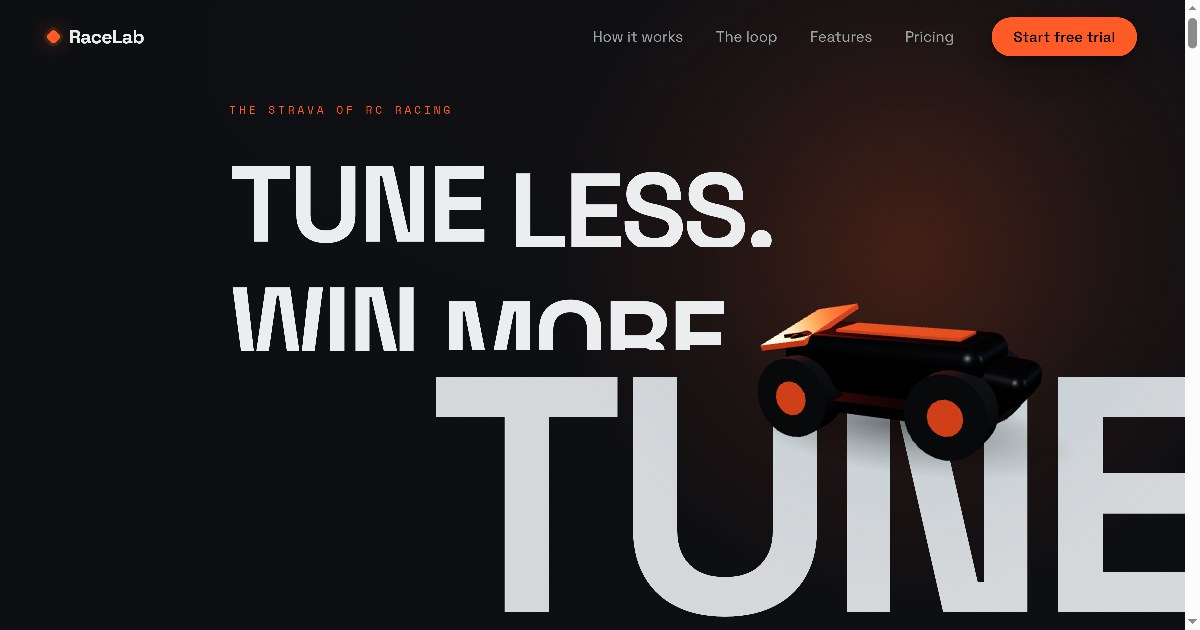
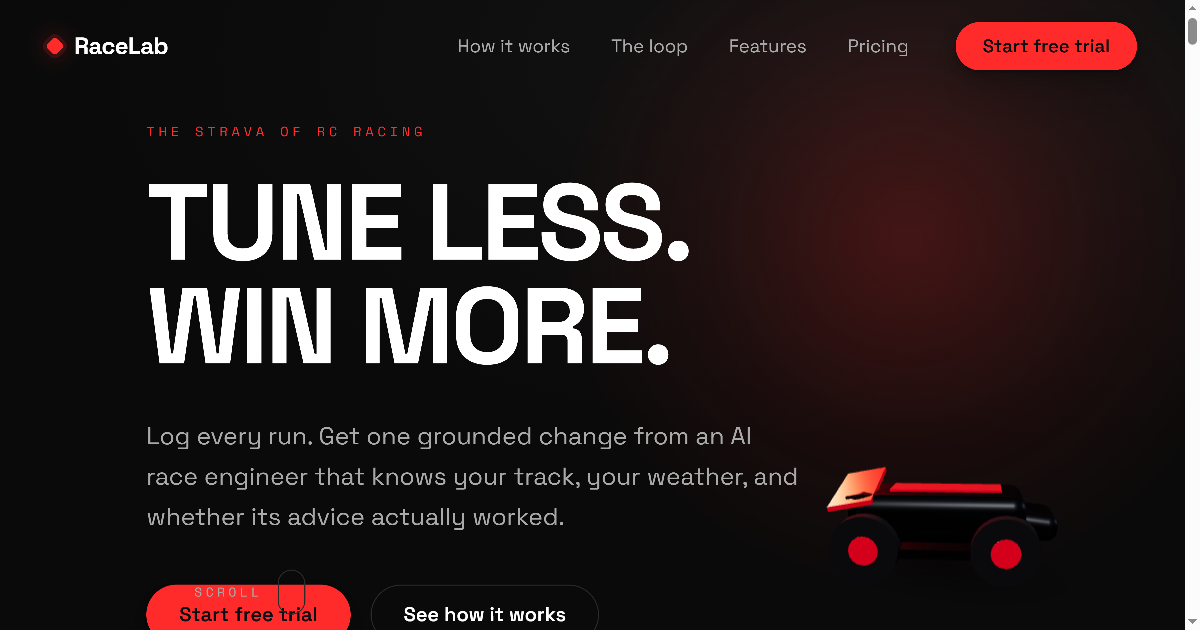
feat(web): recolor to red/white/black + fix hero overflow
- Palette: black background (#0a0a0a), white text (#fff), one red accent (#ff2a2a).
  Collapsed the green "good" and amber "warn" into red (global color replace across
  all CSS/JS/SVG + base.css tokens; 0 orange/green refs remain).
- Hero: removed the oversized "TUNE" knockout word that bled off the right edge and
  overlapped the subhead; settled the 3D car into the lower-right; narrowed the
  subhead so nothing collides — the hero now fits the viewport cleanly.
- Regenerated favicon + OG image in the new palette.

Verified in-browser (Chromium, 1440): black/white/red throughout, hero composition
fits with no element bleed, 0 horizontal page overflow; final CTA + footer render.

diff --git a/RaceLab/apps/web/styles/sections/hero.css b/RaceLab/apps/web/styles/sections/hero.css
@@ -32,8 +32,8 @@
   border-radius: 50%;
   background: radial-gradient(
     circle at center,
-    rgba(255, 90, 38, 0.22) 0%,
-    rgba(255, 90, 38, 0.07) 38%,
+    rgba(255, 42, 42, 0.22) 0%,
+    rgba(255, 42, 42, 0.07) 38%,
     transparent 68%
   );
   filter: blur(8px);
@@ -69,8 +69,8 @@
   height: 7%;
   border-radius: 4px;
   transform: rotate(-9deg);
-  background: linear-gradient(90deg, var(--accent) 0%, rgba(255, 90, 38, 0.7) 100%);
-  box-shadow: 0 6px 22px rgba(255, 90, 38, 0.32);
+  background: linear-gradient(90deg, var(--accent) 0%, rgba(255, 42, 42, 0.7) 100%);
+  box-shadow: 0 6px 22px rgba(255, 42, 42, 0.32);
 }
 .hero__machine-wheel {
   position: absolute;
@@ -105,10 +105,10 @@
 /* live Three.js car (desktop + WebGL) — replaces the CSS-art machine when mounted */
 .hero__car {
   position: absolute;
-  right: clamp(-60px, 1vw, 60px);
-  bottom: 8%;
-  width: clamp(320px, 46vw, 680px);
-  height: clamp(220px, 34vw, 480px);
+  right: clamp(-30px, 1.5vw, 36px);
+  bottom: 3%;
+  width: clamp(290px, 38vw, 560px);
+  height: clamp(210px, 28vw, 400px);
   z-index: 0;
   will-change: transform;
 }
@@ -119,23 +119,6 @@
 }
 @media (max-width: 768px) {
   .hero__car { display: none; }
-}
-
-/* knockout word over the machine — punches through via difference blend */
-.hero__knockout {
-  position: absolute;
-  right: -2%;
-  bottom: 4%;
-  font-family: "Space Grotesk", system-ui, sans-serif;
-  font-weight: 700;
-  font-size: clamp(120px, 28vw, 420px);
-  line-height: 0.8;
-  letter-spacing: -0.04em;
-  color: var(--text);
-  mix-blend-mode: difference;
-  opacity: 0.9;
-  user-select: none;
-  will-change: transform;
 }
 
 /* ── content ────────────────────────────────────────────────────────── */
@@ -172,7 +155,7 @@
 }
 
 .hero__subhead {
-  max-width: 46ch;
+  max-width: 42ch;
   color: var(--sub);
   font-size: clamp(1.05rem, 0.98rem + 0.4vw, 1.3rem);
   line-height: 1.65;
@@ -236,11 +219,6 @@
     top: 9%;
     width: 72vw;
     opacity: 0.75;
-  }
-  .hero__knockout {
-    right: -6%;
-    bottom: 22%;
-    opacity: 0.6;
   }
   .hero__inner {
     max-width: 100%;

diff --git a/RaceLab/apps/web/styles/sections/tune.css b/RaceLab/apps/web/styles/sections/tune.css
@@ -8,8 +8,8 @@
   /* a faint pit-lane wash so the live canvas has depth behind it */
   background-image: radial-gradient(
       120% 90% at 18% 30%,
-      rgba(255, 90, 38, 0.07) 0%,
-      rgba(255, 90, 38, 0) 55%
+      rgba(255, 42, 42, 0.07) 0%,
+      rgba(255, 42, 42, 0) 55%
     ),
     radial-gradient(100% 80% at 90% 90%, rgba(13, 14, 17, 0.9) 0%, rgba(13, 14, 17, 0) 60%);
 }
@@ -54,8 +54,8 @@
   transform: translateX(-50%);
   background: radial-gradient(
     50% 50% at 50% 50%,
-    rgba(255, 90, 38, 0.14) 0%,
-    rgba(255, 90, 38, 0) 70%
+    rgba(255, 42, 42, 0.14) 0%,
+    rgba(255, 42, 42, 0) 70%
   );
   filter: blur(8px);
   pointer-events: none;
@@ -86,7 +86,7 @@
   width: min(78%, 520px);
   height: auto;
   color: var(--accent);
-  filter: drop-shadow(0 0 18px rgba(255, 90, 38, 0.25));
+  filter: drop-shadow(0 0 18px rgba(255, 42, 42, 0.25));
 }
 
 /* --- Rail: the live setup sheet. --- */
@@ -169,10 +169,10 @@
   transform: translateX(6px);
   box-shadow:
     inset 0 1px 0 rgba(236, 237, 238, 0.05),
-    -1px 0 0 rgba(255, 90, 38, 0.5),
+    -1px 0 0 rgba(255, 42, 42, 0.5),
     0 1px 2px rgba(0, 0, 0, 0.3),
     0 10px 30px rgba(0, 0, 0, 0.32),
-    0 2px 18px rgba(255, 90, 38, 0.12);
+    0 2px 18px rgba(255, 42, 42, 0.12);
 }
 .tune__step.is-active .tune__index {
   color: var(--accent);

diff --git a/RaceLab/apps/web/src/sections/hero.js b/RaceLab/apps/web/src/sections/hero.js
@@ -27,7 +27,6 @@ export function init(ctx) {
         <span class="hero__machine-wheel hero__machine-wheel--r"></span>
         <span class="hero__machine-shadow"></span>
       </div>
-      <span class="hero__knockout" data-knockout>TUNE</span>
     </div>
 
     <div class="container hero__inner">
@@ -51,7 +50,6 @@ export function init(ctx) {
   const cta = root.querySelector(".hero__cta");
   const eyebrow = root.querySelector(".hero__eyebrow");
   const cue = root.querySelector(".hero__scrollcue");
-  const knockout = root.querySelector("[data-knockout]");
 
   // Reduced motion: paint final states, register nothing scroll-driven.
   if (env.reduced) {
@@ -81,14 +79,7 @@ export function init(ctx) {
     repeatDelay: 0.2,
   });
 
-  // Knockout word + machine parallax: drift on scroll-out (transform/opacity only).
-  if (knockout) {
-    gsap.to(knockout, {
-      yPercent: -28,
-      ease: "none",
-      scrollTrigger: { trigger: root, start: "top top", end: "bottom top", scrub: true },
-    });
-  }
+  // Machine parallax: drift on scroll-out (transform/opacity only).
   gsap.to(".hero__machine", {
     yPercent: 14,
     ease: "none",

diff --git a/RaceLab/apps/web/styles/base.css b/RaceLab/apps/web/styles/base.css
@@ -1,19 +1,19 @@
 /* base.css — global design system: tokens, reset, type, grain, cursor, buttons. */
 
 :root {
-  /* pit-lane palette (extends the app DA) */
-  --bg: #0e0f12;
-  --bg-deep: #0b0c0e;
-  --bg-soft: #111114;
-  --surface: #1a1c21;
-  --surface-alt: #22252c;
-  --border: #2e323b;
-  --text: #ecedee;
-  --sub: #9ba1a6;
-  --accent: #ff5a26;
-  --accent-soft: #3a2218;
-  --good: #3ddc84;
-  --warn: #ffb02e;
+  /* red / white / black palette */
+  --bg: #0a0a0a;
+  --bg-deep: #000000;
+  --bg-soft: #141414;
+  --surface: #161616;
+  --surface-alt: #1f1f1f;
+  --border: #2a2a2a;
+  --text: #ffffff;
+  --sub: #a8a8a8;
+  --accent: #ff2a2a;
+  --accent-soft: #3a1010;
+  --good: #ff2a2a;
+  --warn: #ff2a2a;
 
   --maxw: 1280px;
   --gutter: clamp(1.25rem, 4vw, 4rem);
@@ -138,7 +138,7 @@ section {
 }
 .btn--primary:hover {
   transform: translateY(-2px);
-  box-shadow: 0 2px 6px rgba(255, 90, 38, 0.35), 0 10px 30px rgba(255, 90, 38, 0.28);
+  box-shadow: 0 2px 6px rgba(255, 42, 42, 0.35), 0 10px 30px rgba(255, 42, 42, 0.28);
 }
 .btn--ghost {
   background: transparent;

diff --git a/RaceLab/apps/web/styles/sections/final.css b/RaceLab/apps/web/styles/sections/final.css
@@ -22,7 +22,7 @@
   bottom: -30%;
   width: 70vw;
   height: 70vw;
-  background: radial-gradient(circle, rgba(255, 90, 38, 0.16), transparent 60%);
+  background: radial-gradient(circle, rgba(255, 42, 42, 0.16), transparent 60%);
   pointer-events: none;
   z-index: -1;
 }
@@ -99,8 +99,8 @@
   font-size: 1.1rem;
   box-shadow:
     0 1px 2px rgba(0, 0, 0, 0.35),
-    0 8px 22px rgba(255, 90, 38, 0.22),
-    0 22px 60px rgba(255, 90, 38, 0.18);
+    0 8px 22px rgba(255, 42, 42, 0.22),
+    0 22px 60px rgba(255, 42, 42, 0.18);
 }
 .final__cta-arrow {
   transition: transform 0.4s var(--ease-out);
@@ -148,7 +148,7 @@ footer {
   height: 12px;
   border-radius: 3px;
   background: var(--accent);
-  box-shadow: 0 0 0 3px var(--accent-soft), 0 0 18px rgba(255, 90, 38, 0.5);
+  box-shadow: 0 0 0 3px var(--accent-soft), 0 0 18px rgba(255, 42, 42, 0.5);
   transform: rotate(45deg);
   transition: transform 0.5s var(--ease-out);
 }

diff --git a/RaceLab/apps/web/styles/sections/pricing.css b/RaceLab/apps/web/styles/sections/pricing.css
@@ -57,16 +57,16 @@
   box-shadow:
     0 1px 2px rgba(0, 0, 0, 0.34),
     0 10px 26px rgba(0, 0, 0, 0.3),
-    0 26px 60px rgba(255, 90, 38, 0.12),
-    inset 0 1px 0 rgba(255, 90, 38, 0.16);
+    0 26px 60px rgba(255, 42, 42, 0.12),
+    inset 0 1px 0 rgba(255, 42, 42, 0.16);
 }
 
 .plan--featured:hover {
   box-shadow:
     0 2px 5px rgba(0, 0, 0, 0.42),
     0 16px 38px rgba(0, 0, 0, 0.36),
-    0 40px 84px rgba(255, 90, 38, 0.2),
-    inset 0 1px 0 rgba(255, 90, 38, 0.22);
+    0 40px 84px rgba(255, 42, 42, 0.2),
+    inset 0 1px 0 rgba(255, 42, 42, 0.22);
 }
 
 /* "2 months free" badge pinned to the featured card's top-right corner */
@@ -83,7 +83,7 @@
   font-weight: 700;
   text-transform: uppercase;
   letter-spacing: 0.14em;
-  box-shadow: 0 4px 14px rgba(255, 90, 38, 0.34);
+  box-shadow: 0 4px 14px rgba(255, 42, 42, 0.34);
 }
 
 .plan__top {

diff --git a/RaceLab/apps/web/src/scene/car.js b/RaceLab/apps/web/src/scene/car.js
@@ -39,7 +39,7 @@ export function createCar(container) {
   const key = new THREE.DirectionalLight(0xffffff, 2.2);
   key.position.set(5, 8, 6);
   scene.add(key);
-  const rim = new THREE.DirectionalLight(0xff5a26, 1.6);
+  const rim = new THREE.DirectionalLight(0xff2a2a, 1.6);
   rim.position.set(-6, 2, -4);
   scene.add(rim);
   // A soft fill from camera-side keeps the shadowed flank readable.
@@ -57,10 +57,10 @@ export function createCar(container) {
     roughness: 0.35,
   });
   const accent = new THREE.MeshStandardMaterial({
-    color: 0xff5a26,
+    color: 0xff2a2a,
     metalness: 0.4,
     roughness: 0.3,
-    emissive: 0xff5a26,
+    emissive: 0xff2a2a,
     emissiveIntensity: 0.18,
   });
   const dark = new THREE.MeshStandardMaterial({

diff --git a/RaceLab/apps/web/styles/sections/proof.css b/RaceLab/apps/web/styles/sections/proof.css
@@ -110,12 +110,12 @@
 .proof__cell--accent {
   color: var(--accent);
   font-weight: 700;
-  text-shadow: 0 0 24px rgba(255, 90, 38, 0.35);
+  text-shadow: 0 0 24px rgba(255, 42, 42, 0.35);
 }
 .proof__row--decisive .proof__sep::after {
   background: var(--accent);
   border-color: var(--accent);
-  box-shadow: 0 0 12px rgba(255, 90, 38, 0.6);
+  box-shadow: 0 0 12px rgba(255, 42, 42, 0.6);
 }
 
 /* --- punchline: big, off-center, descriptive vs prescriptive ------------ */
@@ -165,7 +165,7 @@
   height: 6px;
   border-radius: 50%;
   background: var(--good);
-  box-shadow: 0 0 10px rgba(61, 220, 132, 0.6);
+  box-shadow: 0 0 10px rgba(255, 42, 42, 0.6);
   flex: none;
 }
 .proof__fact:hover {

diff --git a/RaceLab/apps/web/styles/sections/nav.css b/RaceLab/apps/web/styles/sections/nav.css
@@ -62,7 +62,7 @@ nav.scrolled::before {
   height: 11px;
   border-radius: 3px;
   background: var(--accent);
-  box-shadow: 0 0 0 3px var(--accent-soft), 0 0 18px rgba(255, 90, 38, 0.5);
+  box-shadow: 0 0 0 3px var(--accent-soft), 0 0 18px rgba(255, 42, 42, 0.5);
   transform: rotate(45deg);
   transition: transform 0.5s var(--ease-out);
 }
@@ -179,7 +179,7 @@ nav.open .nav__burger {
   right: -10%;
   width: 60vw;
   height: 60vw;
-  background: radial-gradient(circle, rgba(255, 90, 38, 0.16), transparent 62%);
+  background: radial-gradient(circle, rgba(255, 42, 42, 0.16), transparent 62%);
   pointer-events: none;
 }
 nav.open .nav__overlay {

diff --git a/RaceLab/apps/web/styles/sections/engineer.css b/RaceLab/apps/web/styles/sections/engineer.css
@@ -120,8 +120,8 @@
   font-size: 0.92rem;
   line-height: 1.4;
   color: var(--good);
-  background: rgba(61, 220, 132, 0.1);
-  border: 1px solid rgba(61, 220, 132, 0.28);
+  background: rgba(255, 42, 42, 0.1);
+  border: 1px solid rgba(255, 42, 42, 0.28);
 }
 
 /* ---- right rail: principles + duel ---- */
@@ -239,8 +239,8 @@
   font-size: 1.05rem;
   font-weight: 700;
   color: var(--good);
-  background: rgba(61, 220, 132, 0.12);
-  border: 1px solid rgba(61, 220, 132, 0.3);
+  background: rgba(255, 42, 42, 0.12);
+  border: 1px solid rgba(255, 42, 42, 0.3);
 }
 
 @media (max-width: 768px) {

diff --git a/RaceLab/apps/web/index.html b/RaceLab/apps/web/index.html
@@ -72,7 +72,7 @@
     <!-- preloader: chassis silhouette draws + counter, then wipes up -->
     <div id="preloader" aria-hidden="true">
       <div class="preloader__inner">
-        <svg class="preloader__car" viewBox="0 0 240 110" fill="none" stroke="#ff5a26" stroke-width="2">
+        <svg class="preloader__car" viewBox="0 0 240 110" fill="none" stroke="#ff2a2a" stroke-width="2">
           <path d="M20 78 L52 78 M188 78 L220 78 M70 78 q50 -52 100 0" />
           <path d="M40 78 q-4 -30 30 -34 l70 0 q34 4 30 34" />
           <path d="M150 44 l34 -10 l2 14" />

diff --git a/RaceLab/apps/web/styles/sections/features.css b/RaceLab/apps/web/styles/sections/features.css
@@ -99,7 +99,7 @@
   width: 140%;
   height: 70%;
   transform: translateX(-50%);
-  background: radial-gradient(50% 50% at 50% 50%, rgba(255, 90, 38, 0.16), transparent 70%);
+  background: radial-gradient(50% 50% at 50% 50%, rgba(255, 42, 42, 0.16), transparent 70%);
   pointer-events: none;
 }
 
@@ -127,7 +127,7 @@
   background: linear-gradient(135deg, var(--accent), var(--accent-soft));
   box-shadow:
     inset 0 1px 0 rgba(255, 255, 255, 0.18),
-    0 6px 18px rgba(255, 90, 38, 0.22);
+    0 6px 18px rgba(255, 42, 42, 0.22);
 }
 
 /* skeleton content rows */
